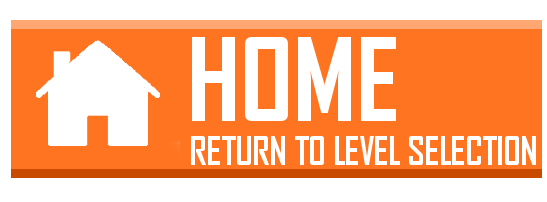
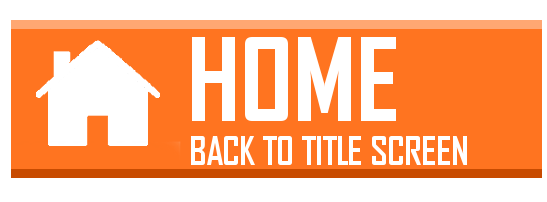
Updated UI, fixed back buton bug, balanced nucleotide binding pocket

Changed region(s): [[0.3419, 0.6535, 0.9945, 0.8317]]

diff --git a/static/js/modules/scene/pause.js b/static/js/modules/scene/pause.js
@@ -24,21 +24,7 @@ class PauseScreen extends Phaser.Scene {
         this.add.text(120, 150, "PAUSED", 
         {fontFamily: 'Teko, sans-serif', fontSize: '40pt', color: '#FFFFFF'}).setDepth(1);
         
-        let homeBtn = this.add.image(180, 400, "home_btn").setScale(0.5).setInteractive();
-        homeBtn.addListener("pointerdown", this.bindFn(this.onButtonClickHold));
-        homeBtn.addListener("pointerup", this.bindFn(this.onButtonClickRelease));
-        homeBtn.addListener("dragend", this.bindFn(this.onButtonClickRelease));
-        
-        homeBtn.addListener("pointerup", this.bindFn(function(){
-            // You can't scene.stop the popupmanager because it has multiple scenes.
-            // the destroy() function will do it for us.
-            data.popupmanager.destroy();
-            this.scene.stop("level" + data.level);
-            this.scene.stop();
-            this.scene.start("titlescreen", {skipToLevelsList: true, gameObj: data.gameObj, fadeIn: true});
-        }));
-        
-        let resumeBtn = this.add.image(180, 500, "resume_btn").setScale(0.5).setInteractive();
+        let resumeBtn = this.add.image(180, 350, "resume_btn").setScale(0.5).setInteractive();
         resumeBtn.addListener("pointerdown", this.bindFn(this.onButtonClickHold));
         resumeBtn.addListener("pointerup", this.bindFn(this.onButtonClickRelease));
         resumeBtn.addListener("dragend", this.bindFn(this.onButtonClickRelease));
@@ -46,7 +32,35 @@ class PauseScreen extends Phaser.Scene {
             this.scene.resume("level" + data.level);
             this.scene.stop();
         }));
-        console.log(data);
+
+        let levelsBtn = this.add.image(180, 450, "levels_btn").setScale(0.5).setInteractive();
+        levelsBtn.addListener("pointerdown", this.bindFn(this.onButtonClickHold));
+        levelsBtn.addListener("pointerup", this.bindFn(this.onButtonClickRelease));
+        levelsBtn.addListener("dragend", this.bindFn(this.onButtonClickRelease));
+        
+        levelsBtn.addListener("pointerup", this.bindFn(function(){
+            // You can't scene.stop the popupmanager because it has multiple scenes.
+            // the destroy() function will do it for us.
+            data.popupmanager.destroy();
+            this.scene.stop("level" + data.level);
+            this.scene.stop();
+            this.scene.start("titlescreen", {skipToLevelsList: true, gameObj: data.gameObj, fadeIn: true});
+        }));
+
+        let homeBtn = this.add.image(180, 550, "home_btn").setScale(0.5).setInteractive();
+        homeBtn.addListener("pointerdown", this.bindFn(this.onButtonClickHold));
+        homeBtn.addListener("pointerup", this.bindFn(this.onButtonClickRelease));
+        homeBtn.addListener("dragend", this.bindFn(this.onButtonClickRelease));
+        
+        homeBtn.addListener("pointerup", this.bindFn(function(){
+            data.popupmanager.destroy();
+            this.scene.stop("level" + data.level);
+            this.scene.stop();
+            this.scene.start("titlescreen", {skipToLevelsList: false, gameObj: data.gameObj, fadeIn: true});
+        }));
+
+
+        
         
         
     }

diff --git a/static/js/modules/scene/levelstage.js b/static/js/modules/scene/levelstage.js
@@ -104,7 +104,7 @@ class LevelStage extends Phaser.Scene {
         this.graphics.fillRect(15, 65, 75, 45).setDepth(0.5);
 
         this.graphics.fillStyle(DARK_BLUE, 1.0);
-        this.graphics.fillRect(100, 65, 75, 45).setDepth(0.5);
+        this.graphics.fillRect(100, 65, 75, 45).setDepth(5000);
 
         this.graphics.fillStyle(ORANGE, 1.0);
         this.graphics.fillRect(185, 65, 115, 45).setDepth(0.5);
@@ -115,7 +115,7 @@ class LevelStage extends Phaser.Scene {
             {fontFamily: 'Teko, sans-serif', fontSize: '10pt', color: '#FFFFFF'}).setDepth(1);
 
         this.game.add.text(116, 68, "ACCURACY", 
-            {fontFamily: 'Teko, sans-serif', fontSize: '10pt', color: '#FFFFFF'}).setDepth(1);
+            {fontFamily: 'Teko, sans-serif', fontSize: '10pt', color: '#FFFFFF'}).setDepth(6000);
 
         this.game.add.text(195, 68, "SCORE", 
             {fontFamily: 'Teko, sans-serif', fontSize: '10pt', color: '#FFFFFF'}).setDepth(1);
@@ -284,9 +284,9 @@ class LevelStage extends Phaser.Scene {
             this.bindingSiteObjects.push(this.game.add.text(85, 410, "Accepter Site",
             {fontFamily: 'Teko', fontSize: '16pt', color: '#ffffff'}).setDepth(3000).setAlpha(1).setAngle(270));
             
-            this.bindingSiteObjects.push(this.game.add.image(150, 494, "bindingsite").setDepth(0.5).setScale(1.3).setAlpha(1));
+            this.bindingSiteObjects.push(this.game.add.image(150, 494, "bindingsite").setDepth(1).setScale(1.3).setAlpha(0.85));
             this.bindingSiteObjects.push(this.game.add.text(85, 537, "Peptidyl Site",
-            {fontFamily: 'Teko', fontSize: '16pt', color: '#ffffff'}).setDepth(0.5).setAlpha(1).setAngle(270));
+            {fontFamily: 'Teko', fontSize: '16pt', color: '#ffffff'}).setDepth(1).setAlpha(1).setAngle(270));
         
             this.bindingSiteObjects.push(this.game.add.image(150, 625, "bindingsite").setDepth(3000).setScale(1.3).setAlpha(0.6));
             this.bindingSiteObjects.push(this.game.add.text(85, 654, "Exit Site",

diff --git a/static/js/modules/gamescore.js b/static/js/modules/gamescore.js
@@ -32,7 +32,7 @@ class GameScore {
             {fontFamily: 'Teko', fontSize: '18pt', color: '#FFFFFF'}).setOrigin(0.5).setDepth(1);
         this.updateSequenceNTs();
         this.accuracyTxt = this.game.add.text(140, 95, "100%", 
-            {fontFamily: 'Teko', fontSize: '18pt', color: '#FFFFFF'}).setOrigin(0.5).setDepth(1);
+            {fontFamily: 'Teko', fontSize: '18pt', color: '#FFFFFF'}).setOrigin(0.5).setDepth(6000);
         this.scoreTxt = this.game.add.text(240, 95, "0000000", 
             {fontFamily: 'Teko', fontSize: '18pt', color: '#FFFFFF'}).setOrigin(0.5).setDepth(1);
     }

diff --git a/static/js/modules/game.js b/static/js/modules/game.js
@@ -100,6 +100,7 @@ class Game {
         this.game.load.image("play_btn", "static/img/playBtn.png");
         this.game.load.image("home_btn", "static/img/homeBtn.png");
         this.game.load.image("back_btn", "static/img/backBtn.png");
+        this.game.load.image("levels_btn", "static/img/levelsBtn.png");
         this.game.load.image("bg", "static/img/bg.png");
         this.game.load.image("bg_ingame", "static/img/bg_ingame.png");
         this.game.load.svg("signin_user_icn", "static/img/sign_in/user-solid.svg");

diff --git a/static/js/modules/nucleotide.js b/static/js/modules/nucleotide.js
@@ -154,6 +154,7 @@ class Nucleotide {
     _genNTObjs() {
         // Finding and setting up the correct animation
         this.imgObj = this.level.add.sprite(0, 0, "nt_" + this.getShortName() + "_basic_animated");
+        this.imgObj.setDepth(-2);
         this.level.anims.create({
             key: "idle_" + this.getShortName(),
             frames: this.level.anims.generateFrameNumbers("nt_" + this.getShortName() + "_basic_animated", { start: 0, end: 3}),

diff --git a/static/js/modules/positionmanager.js b/static/js/modules/positionmanager.js
@@ -90,7 +90,7 @@ class PositionManager {
             // line comes from off the screen
             this.inputVertPathDispl = new Phaser.Curves.Path(150, -100); // start
             this.inputVertPathDispl.cubicBezierTo(150, 785, 130, 160, 165, 440); // end
-            this.inputVertPathDispl.z = 1;
+            //this.inputVertPathDispl.z = 1;
         }
         this.inputVertPathDispl.draw(this.level.graphics);
 

diff --git a/static/js/modules/scene/listlevels.js b/static/js/modules/scene/listlevels.js
@@ -582,6 +582,7 @@ class ListLevels extends Phaser.Scene {
             loop: false,
             callback: function () {
                 that.scene.stop("listlevels");
+                that.scene.stop("levelpre" + that.curLevel);
                 that.scene.launch("titlescreen");
             }
         });

diff --git a/static/js/modules/codon.js b/static/js/modules/codon.js
@@ -274,7 +274,7 @@ class Codon {
 
             // Makes the codons actually face each other.
             cdnt.setAngle(270);
-
+            
             this.containerObj.add(cdnt);
             this.ntCodonObj.push(cdnt);
             
